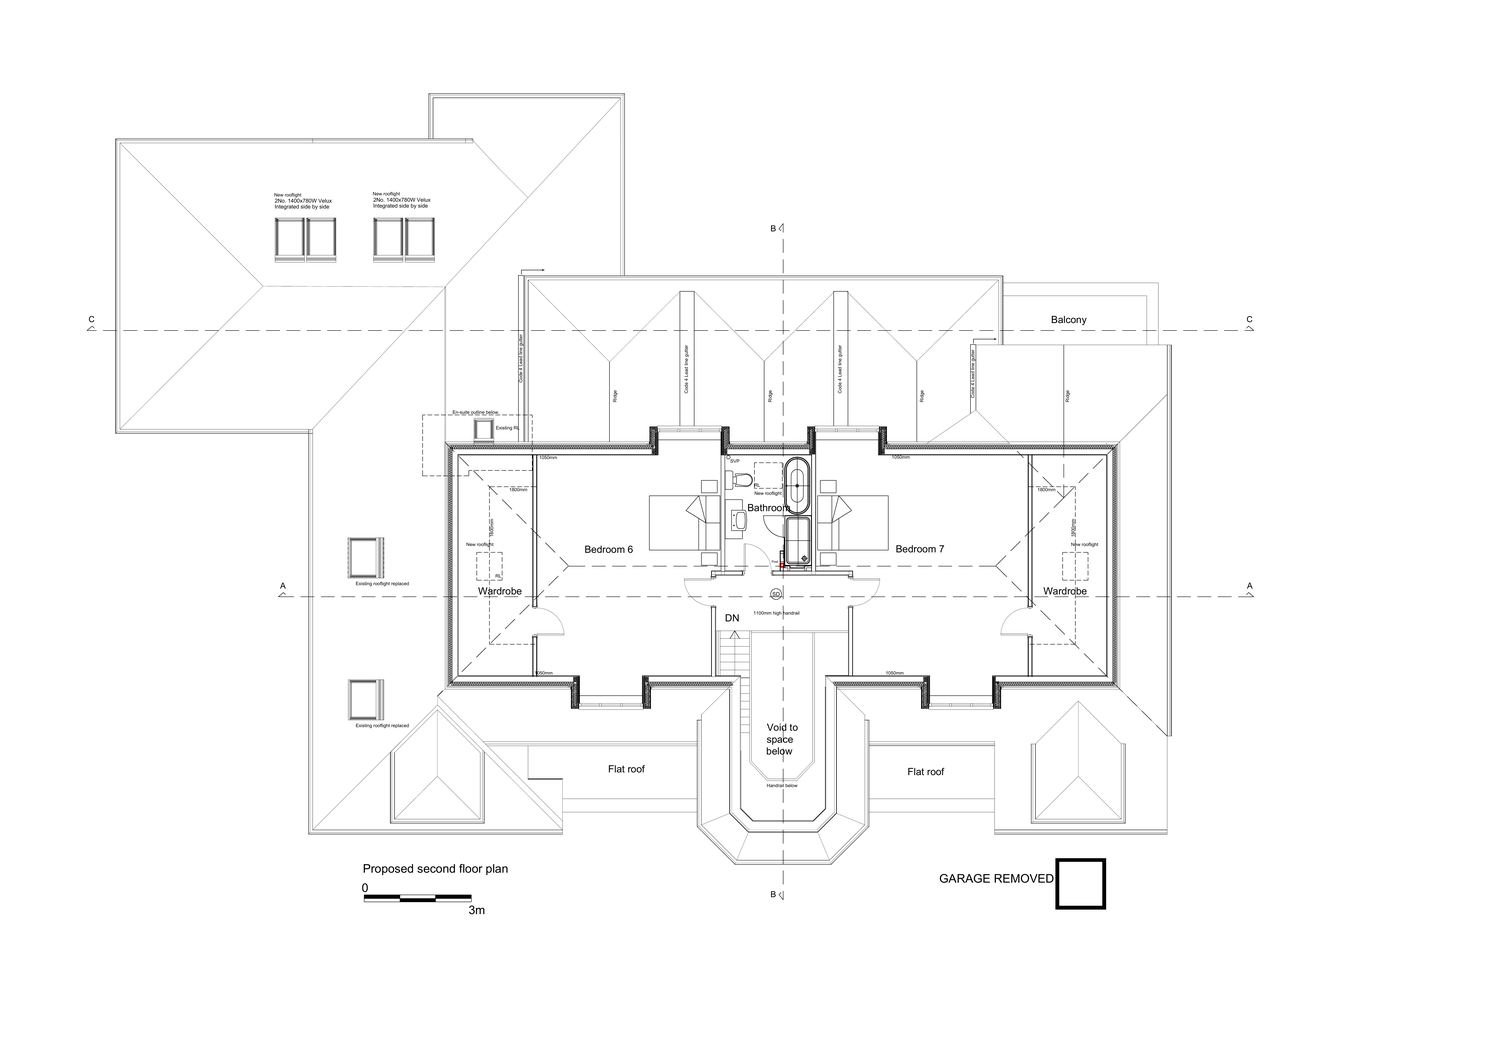
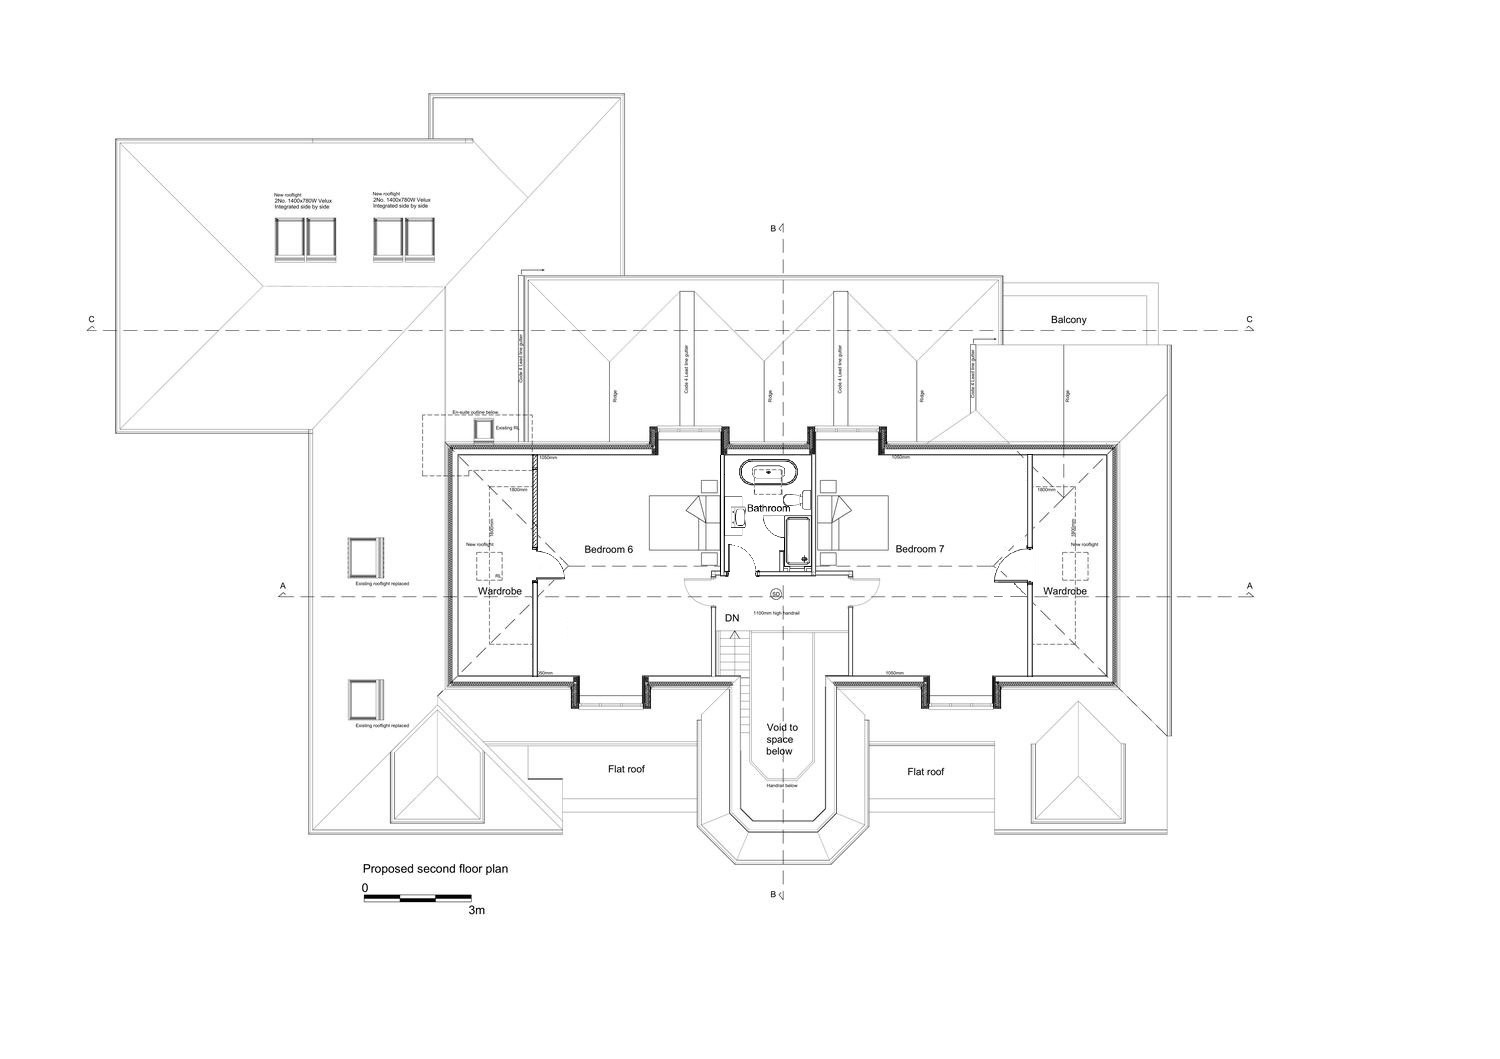
Add files via upload

diff --git a/app.js b/app.js
@@ -2,7 +2,7 @@
 // whether your phone is actually running the latest code, since the old
 // "Rev" line was showing the last-edited-snag time (which is per-device
 // data, not a code version) and was misleading for that purpose.
-const APP_BUILD = 'Build v9 — 9 Aug 2026';
+const APP_BUILD = 'Build #10';
 
 /* ============================================================
    STORAGE LAYER — IndexedDB.

diff --git a/sw.js b/sw.js
@@ -1,4 +1,4 @@
-const CACHE_NAME = 'site-snag-register-v9';
+const CACHE_NAME = 'site-snag-register-v10';
 const CORE_ASSETS = [
   './',
   './index.html',
